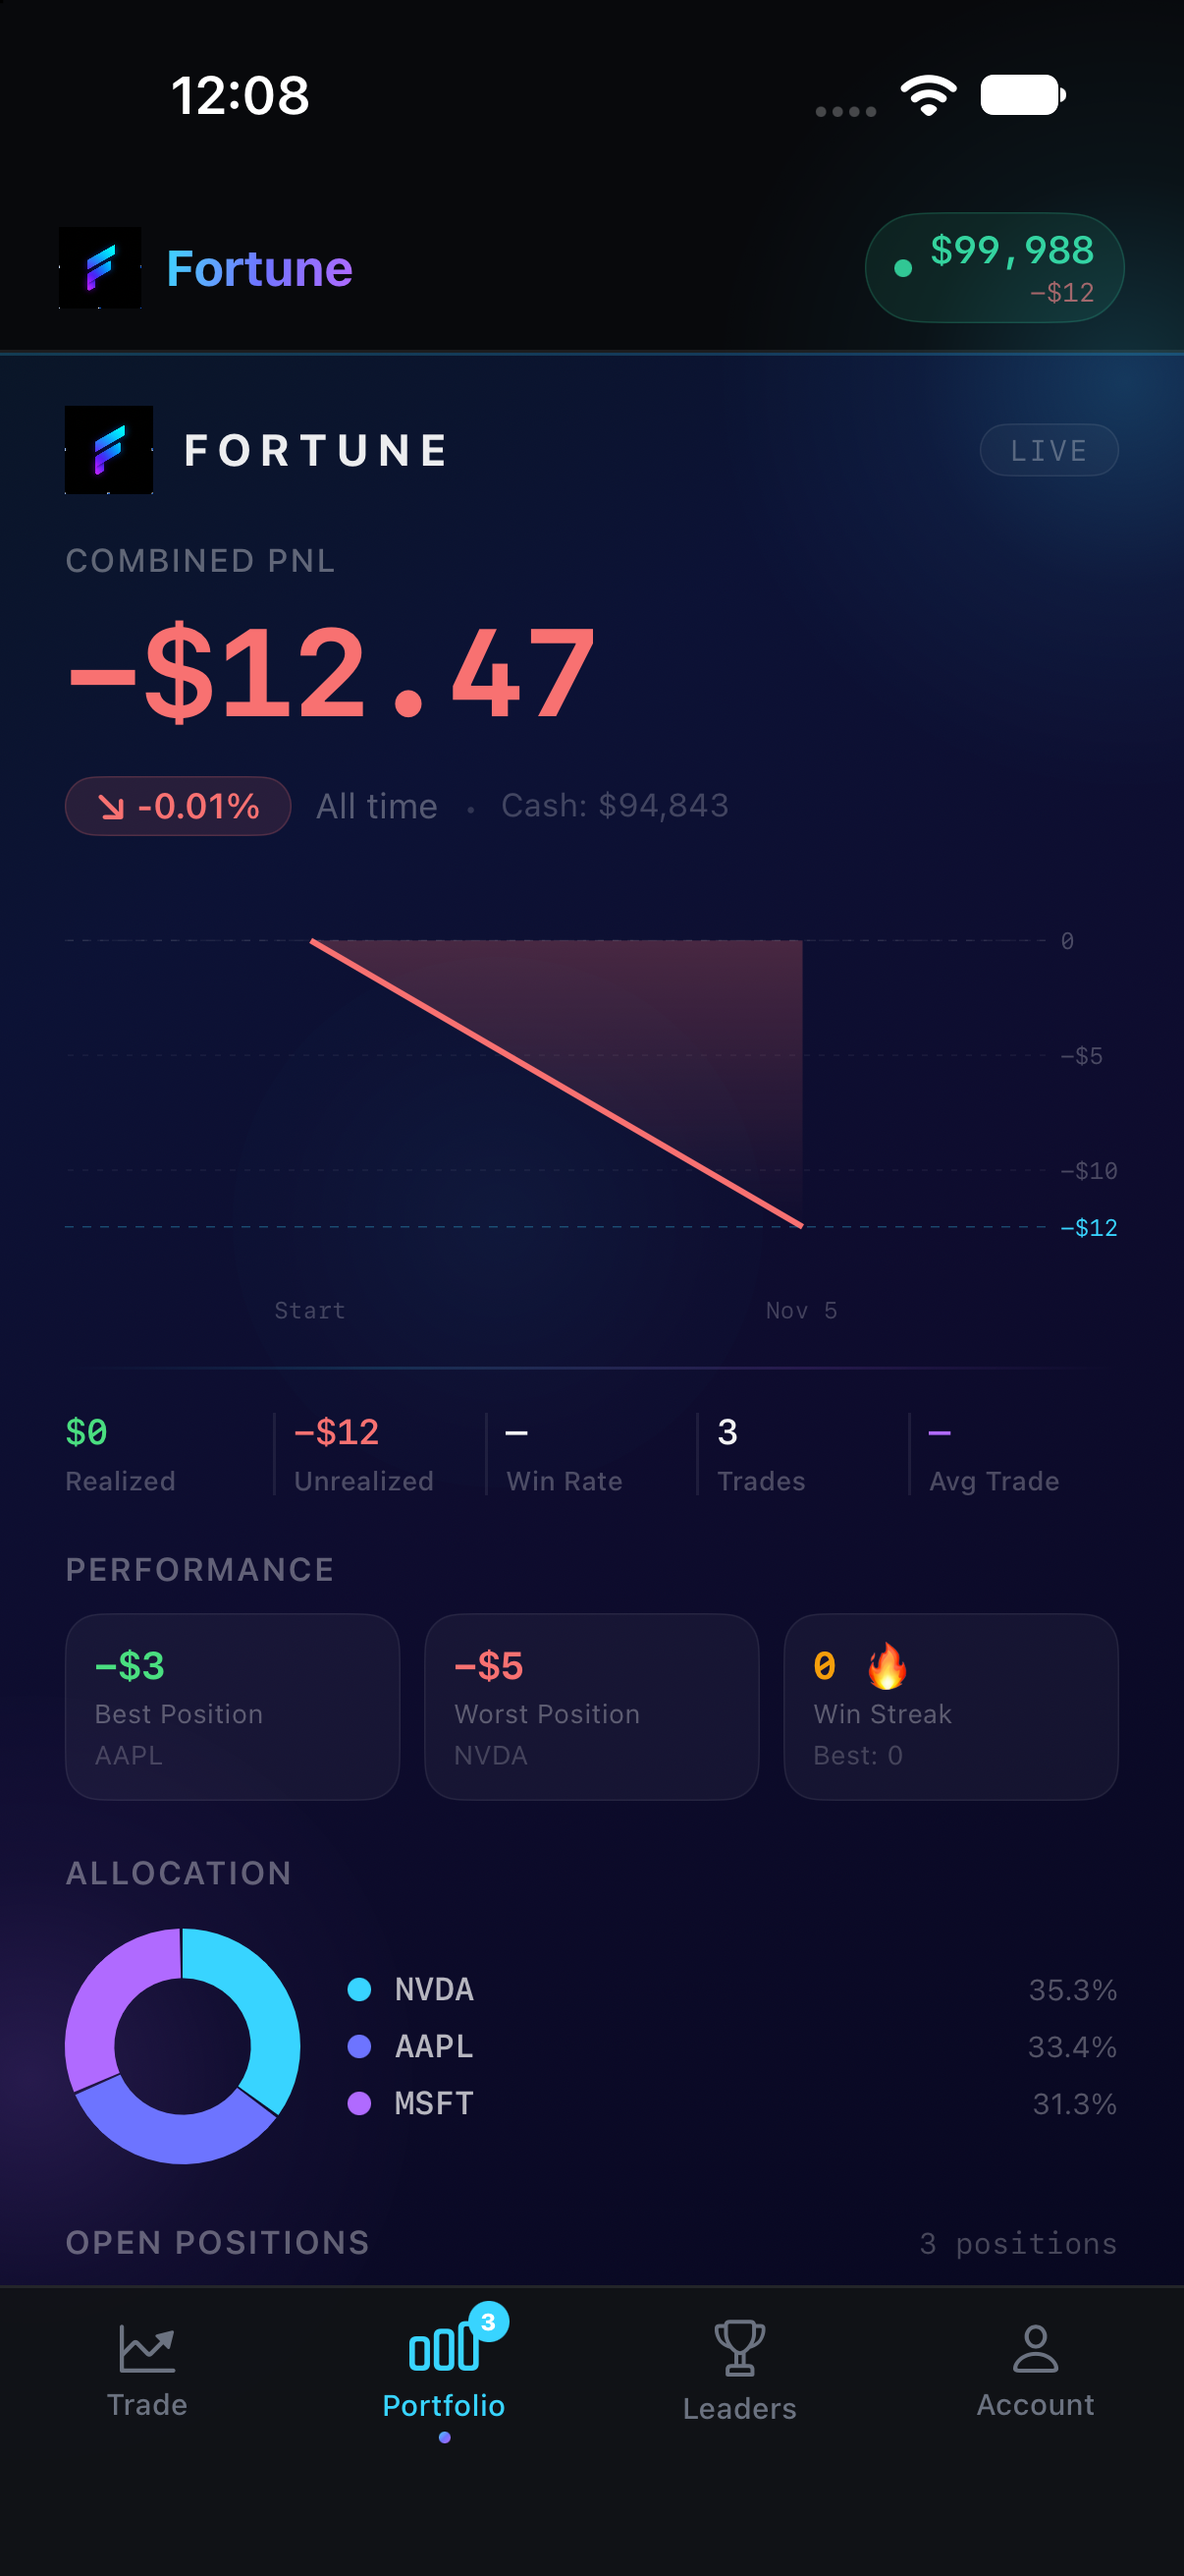
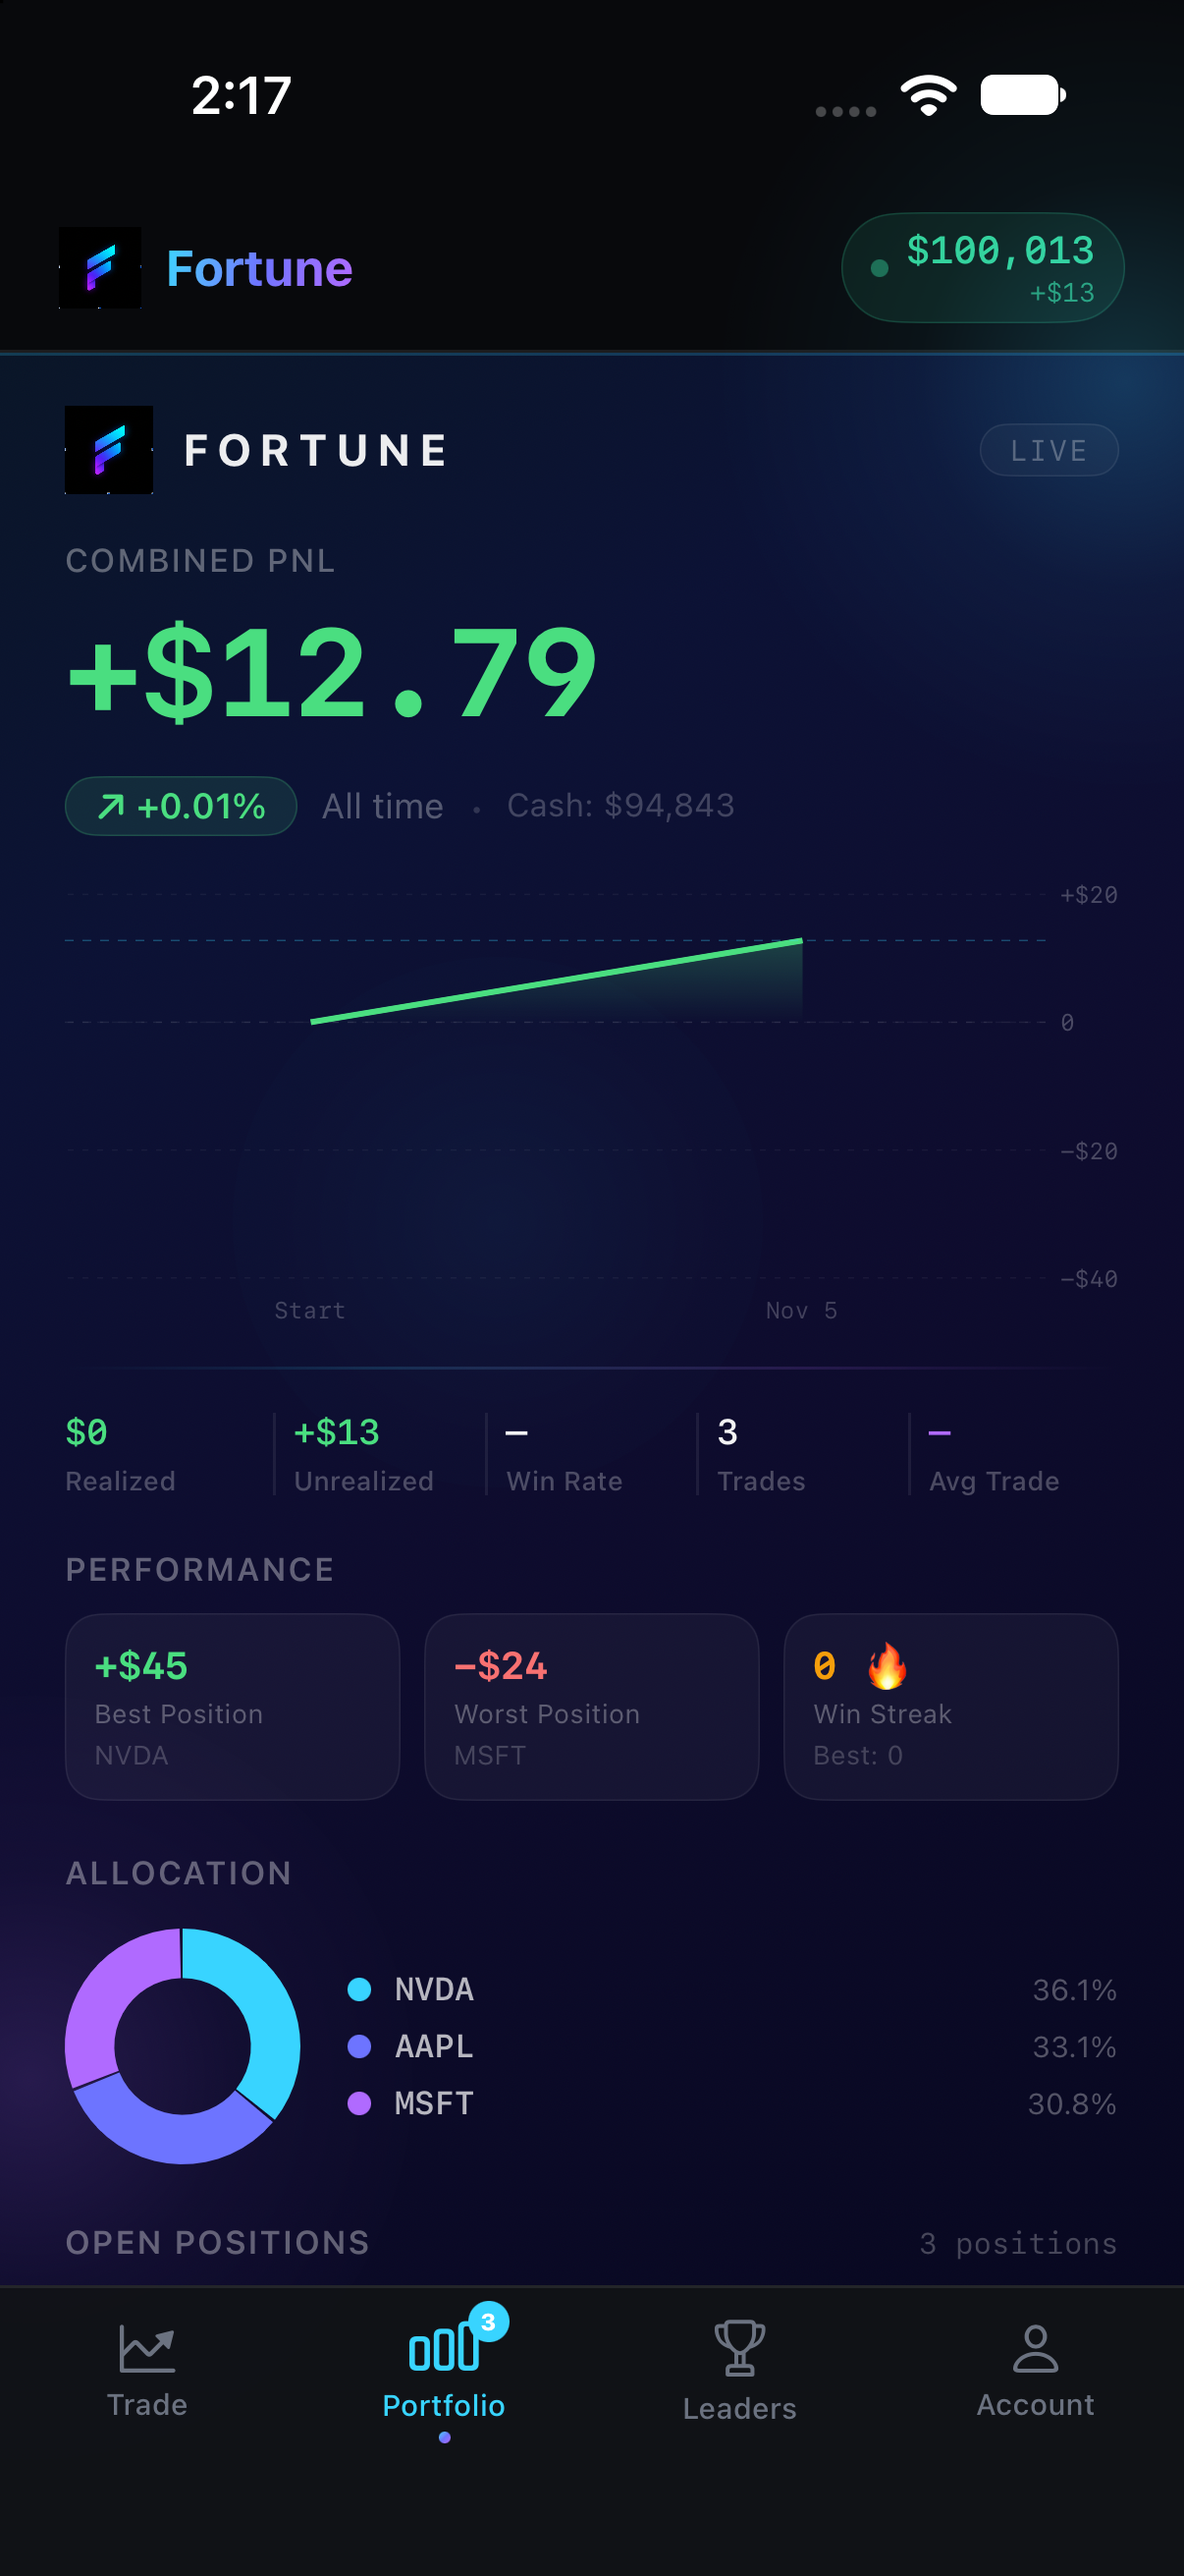
Rewrite README with screenshots, architecture, and setup guide
- New README: features, tech stack, architecture, engineering details,
  setup with Secrets.plist, testing, and project structure
- Add Account screenshot and refresh Portfolio screenshot
- Debug-only `-initialTab <tab>` launch argument for screenshots
- Match test target deployment target to the app (iOS 26.5)

diff --git a/Fortune Final V2/Models.swift b/Fortune Final V2/Models.swift
@@ -197,6 +197,12 @@ final class AppModel {
     init(defaults: UserDefaults = .standard) {
         self.defaults = defaults
         load()
+        #if DEBUG
+        // Debug-only: launch straight to a tab, e.g. `-initialTab account` (used for screenshots)
+        if let raw = UserDefaults.standard.string(forKey: "initialTab"), let tab = AppTab(rawValue: raw) {
+            activeTab = tab
+        }
+        #endif
     }
 
     // MARK: Derived preferences

diff --git a/README.md b/README.md
@@ -1,48 +1,149 @@
-# Fortune — SwiftUI (v2.0)
+# Fortune — Stock Market Paper-Trading Simulator
 
-This is the updated build for Fortune — see
-"What's new in this version" below for the delta.
+Fortune is an iOS app for practicing stock trading with live market data and zero real money. You get a mock portfolio, buy and sell real stocks at live prices, set stop losses and take-profit targets, and compete on a leaderboard while earning XP and achievements.
 
----
+Built entirely in **SwiftUI** with Swift Concurrency, Swift Charts, and the Observation framework.
 
-## Setup (about 5 minutes)
-
-1. In Xcode: **File → New → Project → iOS → App**.
-   - Product Name: `Fortune`
-   - Interface: **SwiftUI**, Language: **Swift**
-   - Set the deployment target to **iOS 17.0** or later.
-2. Xcode generates a `ContentView.swift` and a `FortuneApp.swift`. **Delete both**
-   (move to Trash) — this folder has its own `FortuneApp.swift`.
-3. Drag every `.swift` file from this folder into the project navigator.
-   Check **"Copy items if needed"** and make sure your app target is ticked.
-4. **Logo (optional):** open `Assets.xcassets`, drag in `FortuneLogo.png`, and
-   name the image set exactly **`FortuneLogo`**. If you skip this, the app still
-   runs — it falls back to a gradient `sparkles` glyph everywhere the logo appears.
-5. Build and run (Cmd-R).
+<p align="center">
+  <img src="docs/screenshots/trade.png" width="200" alt="Trade screen with live candlestick chart and positions">
+  &nbsp;
+  <img src="docs/screenshots/portfolio.png" width="200" alt="Portfolio screen with P&L, allocation, and trade journal">
+  &nbsp;
+  <img src="docs/screenshots/leaderboard.png" width="200" alt="Leaderboard with daily challenges">
+  &nbsp;
+  <img src="docs/screenshots/account.png" width="200" alt="Account screen with level, portfolio value, and stats">
+</p>
 
 ---
 
-## File map
+## Features
 
-| File | What's in it |
-|------|--------------|
-| `FortuneApp.swift` | App entry point. |
-| `RootView.swift` | Onboarding vs. main shell, header bar, bottom tab bar. |
-| `Theme.swift` | All colors, gradients, fonts, number formatting. **Start here to restyle.** |
-| `Models.swift` | Data types + `AppModel` (the shared app state). |
-| `MockData.swift` | All sample data: stocks, timeframes, holdings, news, predictions, leaderboard, candles. |
-| `Components.swift` | Shared pieces: logo, PnL badge, backgrounds, footer, flow layout. |
-| `OnboardingView.swift` | The 9-step welcome flow. |
-| `TradeView.swift` | Trade screen + order / detail / alerts sheets. |
-***Will Be Deprecated Feature***| `PredictionsView.swift` | Prediction markets ("Predict" tab). |
-| `LeaderboardView.swift` | Leaderboard + daily challenges. |
-| `PnLView.swift` | Portfolio: PnL, candles, allocation donut, holdings, news. |
-| `AccountView.swift` | Account & settings + sign-out action sheet. |
+**Trading**
+- Live quotes for 22 stocks across Tech, Finance, Consumer, Media, Crypto, and EV sectors
+- Real-time price updates over a WebSocket feed, plus periodic REST refreshes
+- Candlestick charts (1D / 1W / 1M / 3M) with the latest bar updated live
+- Market orders with stop-loss and take-profit levels that **execute automatically** when price crosses them
+- Partial sells, average-cost basis across multiple buys, and realized vs. unrealized P&L
+- Price alerts that fire a notification when a target is crossed
+- Search, sector filters, sorting, top movers, and a starred watchlist
 
-**"I want to change X":**
-- Colors / gradients -> `Theme.swift`
-- The numbers, stocks, holdings, news -> `MockData.swift`
-- Starting balance / user name -> `AppModel` in `Models.swift`
-- Which tabs show in the bar -> `AppTab.barTabs` in `Models.swift`
+**Portfolio**
+- Combined P&L hero, equity curve, allocation donut chart, open positions, and a trade journal of every closed trade (manual, stop loss, or take profit)
+- Market news feed
+
+**Gamification**
+- XP and levels earned from real trading activity
+- Daily challenges (First Blood, Diversify, Profit Streak) that reset at midnight
+- Achievements such as Hot Streak (5 wins in a row) and Night Owl (trades outside NYSE hours)
+- Global and weekly leaderboard against simulated traders
+
+**Personalization**
+- 9-step onboarding that tailors the starting balance, default stop-loss / take-profit %, chart timeframe, sort order, and sector focus
+- Local notifications for level-ups, big moves in held stocks, and stop-loss / take-profit fills
+- Starred stocks sync across devices with iCloud key-value storage
+- Everything persists on-device; no account or server required
 
 ---
+
+## Tech Stack
+
+| Area | Technology |
+|------|------------|
+| UI | SwiftUI, Swift Charts, Canvas (donut chart, confetti) |
+| State | Observation (`@Observable`), single source of truth in `AppModel` |
+| Concurrency | async/await, `actor`, `TaskGroup`, `AsyncStream` |
+| Networking | `URLSession` REST + `URLSessionWebSocketTask` |
+| Data | [Finnhub](https://finnhub.io) (quotes, fundamentals, news, live trades), Yahoo Finance (OHLC candles) |
+| Persistence | `Codable` + `UserDefaults`, `NSUbiquitousKeyValueStore` for iCloud sync |
+| Notifications | UserNotifications (local only) |
+| Testing | Swift Testing (26 unit tests) |
+
+---
+
+## Architecture
+
+```
+Views (SwiftUI)  ──reads/writes──▶  AppModel (@Observable, MainActor)  ──async──▶  MarketService (actor)
+  TradeView                          • portfolio & order engine                   • Finnhub REST + WebSocket
+  PnLView                            • SL/TP execution, alerts                    • Yahoo Finance charts
+  LeaderboardView                    • XP, challenges, achievements
+  AccountView                        • persistence & iCloud sync
+```
+
+- **`AppModel`** owns all app state. Holdings, P&L, and the equity curve are *derived* from the order history rather than stored separately, so they can never drift out of sync.
+- **`MarketService`** is an `actor`, so network work stays off the main thread and its state is isolated.
+- **`NotificationManager`** wraps local notifications and checks authorization before sending.
+
+### Engineering details
+
+- **Rate-limit aware loading.** Finnhub's free tier allows 60 calls/minute. Quotes load first so the UI fills in within a second or two. Fundamentals (P/E, market cap, 52-week range, analyst rating) are then fetched in small batches with pauses between them. Rate-limited or empty responses are rejected so a `429` can never turn into a $0 price that falsely triggers a stop loss.
+- **Throttled live feed.** Large-cap stocks trade thousands of times a minute. WebSocket updates are throttled to one UI update per symbol every 2 seconds and ignore sub-cent moves. The stream reconnects automatically.
+- **Order engine.** Weighted average-cost basis, realized P&L on partial sells, and automatic stop-loss / take-profit execution that records the exit reason in the trade journal.
+- **Testable by design.** `AppModel` accepts an injected `UserDefaults`, so each test runs against isolated storage.
+
+---
+
+## Getting Started
+
+### Requirements
+- Xcode 27 or later
+- iOS 26.5+ (simulator or device)
+- A free [Finnhub API key](https://finnhub.io/register)
+
+### Setup
+1. Clone the repo:
+   ```bash
+   git clone https://github.com/Kalmxz007/Fortune-iOS-App-Dev.git
+   ```
+2. Add your API key. Copy the template into the app folder and paste your key into it:
+   ```bash
+   cp Secrets.example.plist "Fortune Final V2/Secrets.plist"
+   ```
+   `Secrets.plist` is git-ignored, so your key stays on your machine.
+3. Open `Fortune Final V2.xcodeproj` and run the **Fortune Final V2** scheme (⌘R).
+
+> **iCloud sync (optional):** syncing starred stocks on a real device requires enabling **iCloud → Key-value storage** under *Signing & Capabilities* with your own team. Everything else works without it.
+
+### Running tests
+Press **⌘U** in Xcode, or run:
+```bash
+xcodebuild test -project "Fortune Final V2.xcodeproj" -scheme "Fortune Final V2" \
+  -destination "platform=iOS Simulator,name=iPhone 18 Pro"
+```
+The tests cover cost basis, realized P&L, stop-loss / take-profit execution, win streaks, daily-challenge XP, price alerts, persistence across relaunches, NYSE market-hours detection, and number formatting.
+
+---
+
+## Project Structure
+
+| File | Responsibility |
+|------|----------------|
+| `FortuneApp.swift` | App entry point |
+| `RootView.swift` | Onboarding vs. main shell, header, tab bar, global toasts |
+| `Models.swift` | `AppModel` (state, order engine, gamification, persistence) and domain types |
+| `MarketService.swift` | Finnhub / Yahoo networking and the WebSocket live feed |
+| `NotificationManager.swift` | Local notification permissions and delivery |
+| `TradeView.swift` | Trade screen plus order, stock detail, and price alert sheets |
+| `PnLView.swift` | Portfolio: P&L, equity curve, allocation, positions, journal, news |
+| `LeaderboardView.swift` | Leaderboard and daily challenges |
+| `AccountView.swift` | Profile, stats, achievements, settings, privacy policy |
+| `OnboardingView.swift` | 9-step personalized onboarding |
+| `TutorialView.swift` | In-app how-to guide |
+| `Components.swift` | Shared views: badges, backgrounds, confetti, flow layout |
+| `Theme.swift` | Colors, gradients, fonts, number formatting |
+| `FortuneTests/` | Swift Testing unit tests |
+
+---
+
+## Roadmap
+
+- Limit orders and short selling
+- Portfolio history snapshots for a time-based equity curve
+- Real multiplayer leaderboard via Game Center
+- Widgets and Live Activities for open positions
+
+---
+
+## Disclaimer
+
+Fortune is a simulator for educational and entertainment purposes. No real money is involved and no real trades are placed. Market data is provided by third parties and may be delayed or inaccurate.
